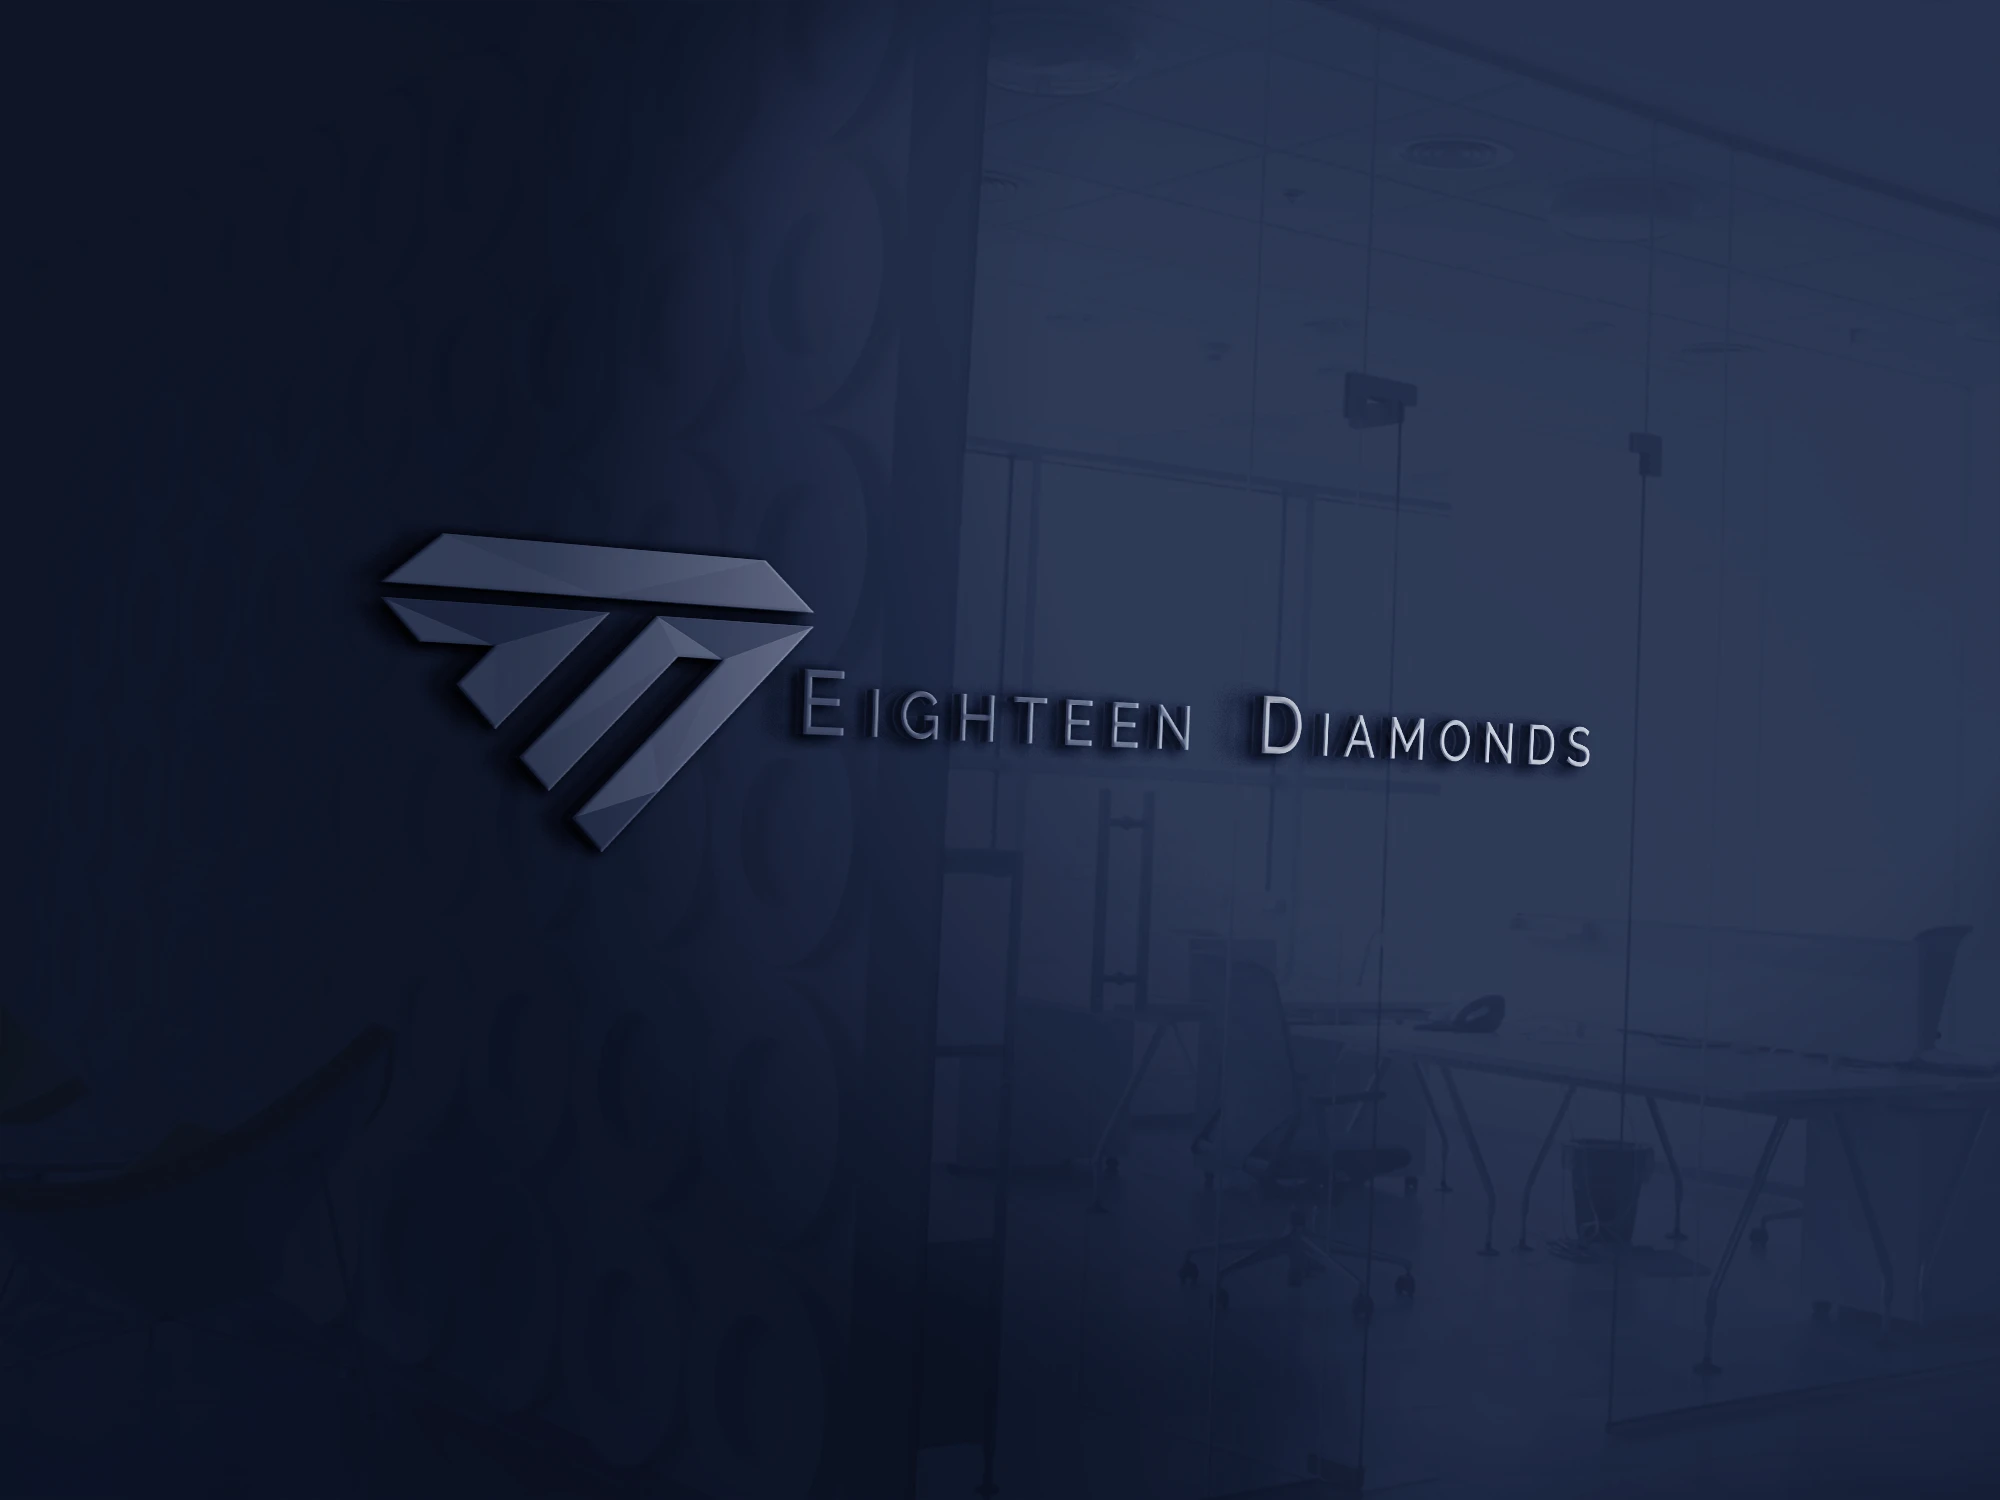
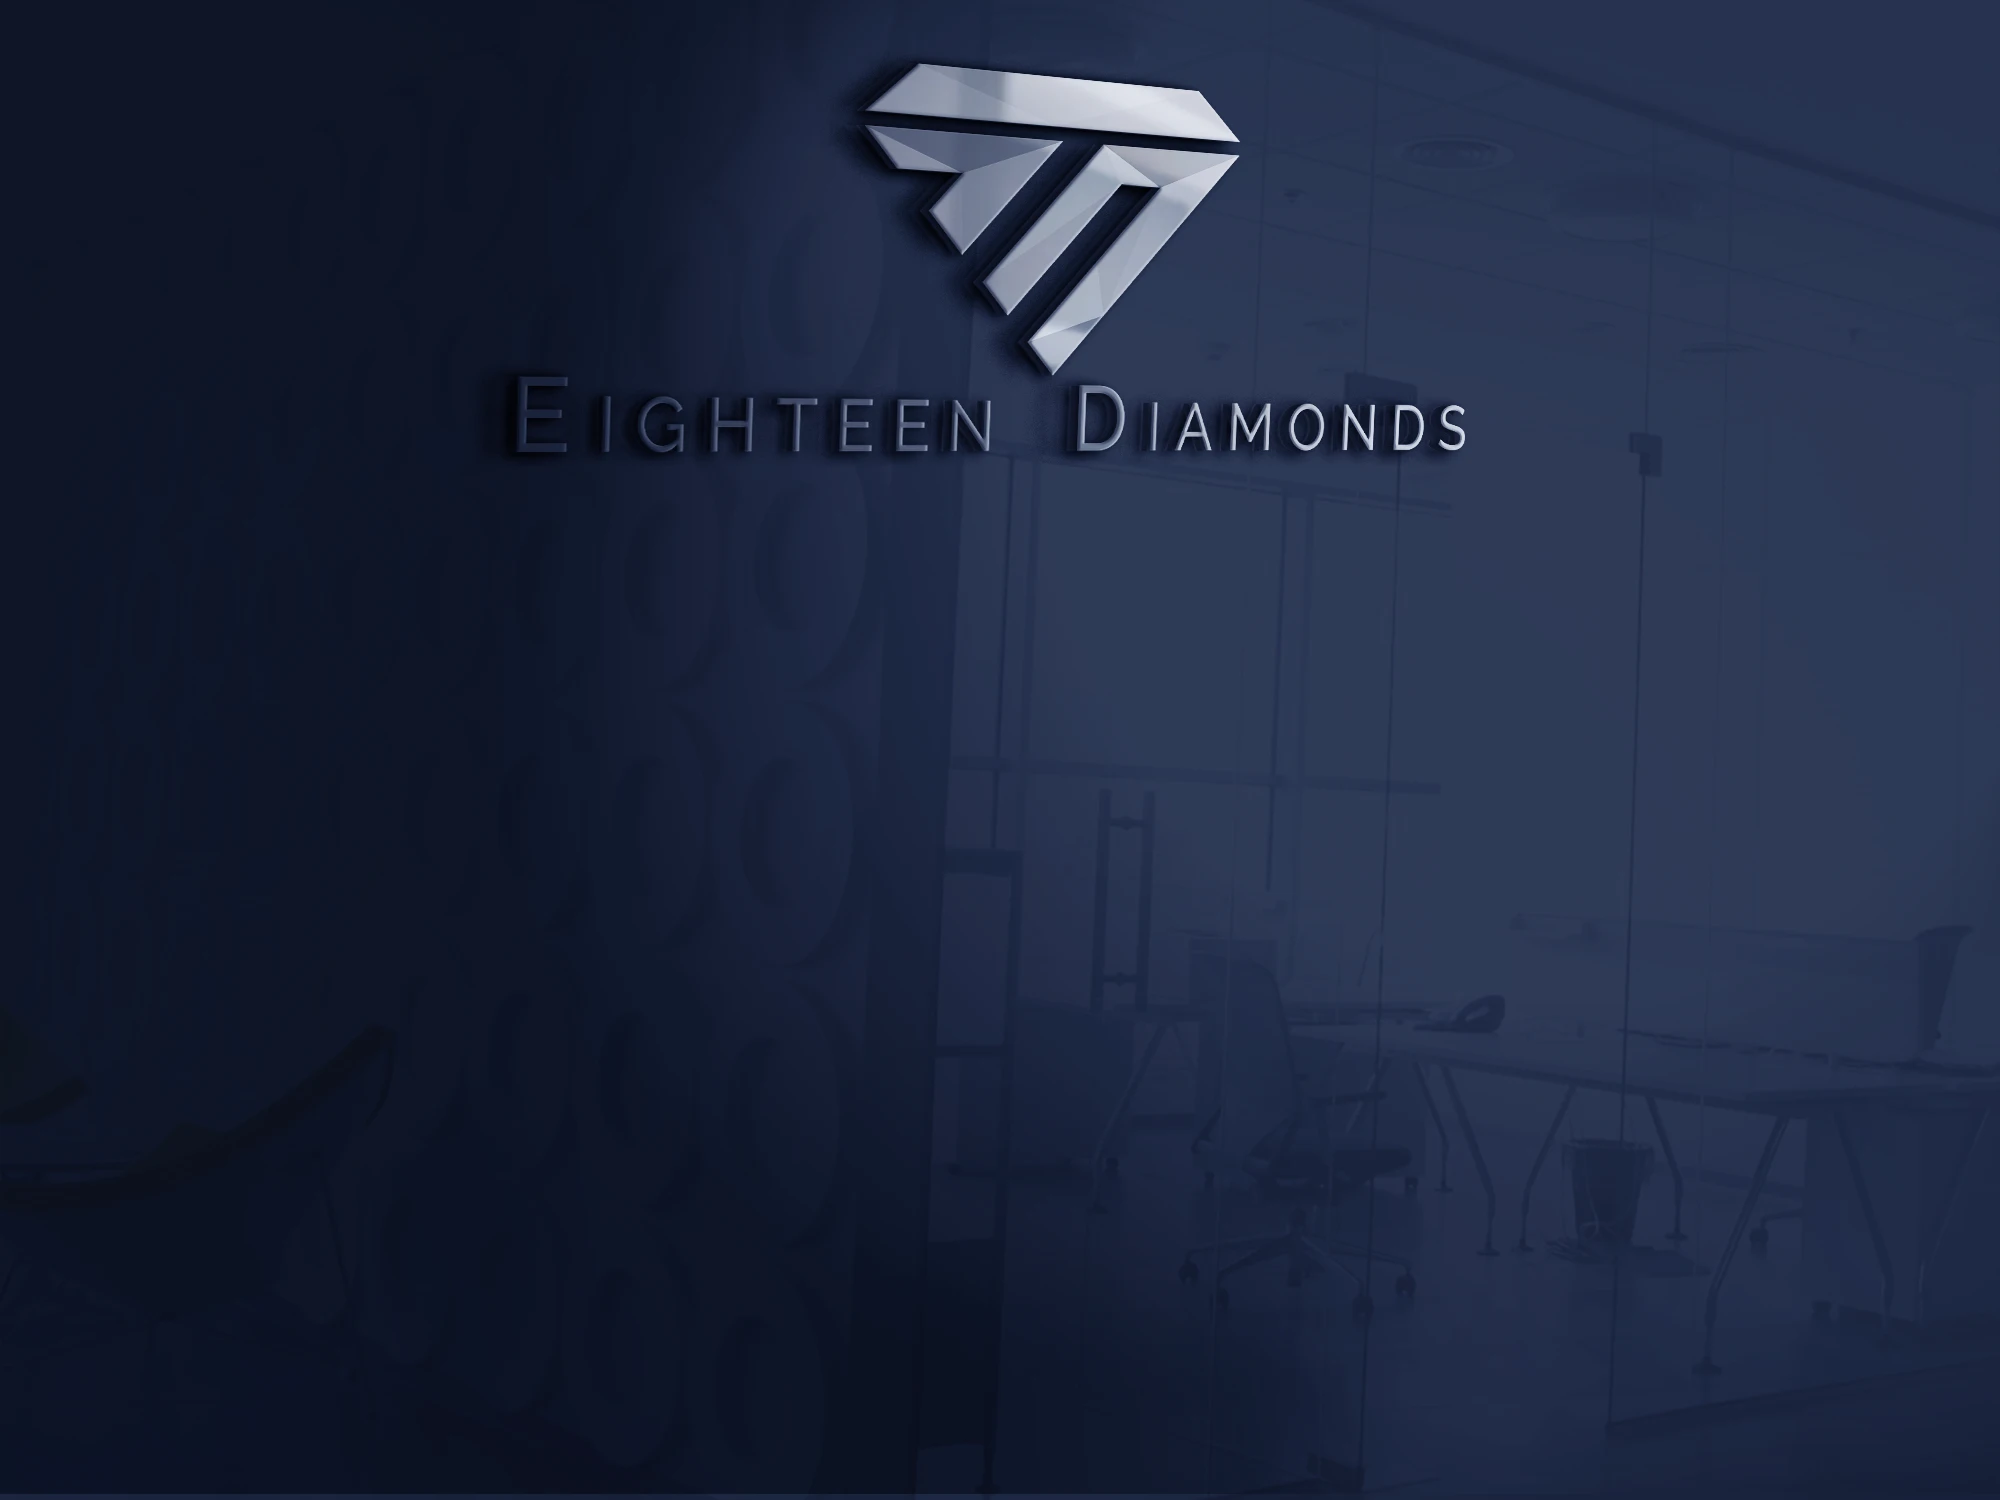
New hero photo with centered sign and copy

diff --git a/assets/styles.css b/assets/styles.css
@@ -212,14 +212,15 @@ h3 {
   letter-spacing: 0.16em;
 }
 
-/* Hero: landscape screens show the wall sign in the upper part, copy below it */
+/* Hero: the wall sign sits centered at the top of the photo, copy is centered below it */
 .hero {
   position: relative;
   display: flex;
   align-items: flex-end;
-  height: clamp(560px, 50vw, 820px);
-  background: var(--navy-900) url("hero.webp") 50% 62% / cover no-repeat;
+  height: clamp(600px, 52vw, 860px);
+  background: var(--navy-900) url("hero.webp") 50% 36px / cover no-repeat;
   overflow: hidden;
+  text-align: center;
 }
 
 .hero::after {
@@ -227,8 +228,8 @@ h3 {
   position: absolute;
   inset: 0;
   background:
-    linear-gradient(180deg, rgba(11, 17, 32, 0.6) 0%, rgba(11, 17, 32, 0) 18%),
-    linear-gradient(0deg, rgba(11, 17, 32, 0.97) 0%, rgba(11, 17, 32, 0.6) 32%, rgba(11, 17, 32, 0) 52%);
+    linear-gradient(180deg, rgba(11, 17, 32, 0.6) 0%, rgba(11, 17, 32, 0) 14%),
+    linear-gradient(0deg, rgba(11, 17, 32, 0.9) 0%, rgba(11, 17, 32, 0.3) 30%, rgba(11, 17, 32, 0) 45%);
 }
 
 .hero .wrap {
@@ -237,9 +238,20 @@ h3 {
   padding-bottom: clamp(32px, 4.5vw, 64px);
 }
 
+.hero .eyebrow::after {
+  content: "";
+  width: 32px;
+  height: 1px;
+  background: currentColor;
+}
+
+.hero .actions {
+  justify-content: center;
+}
+
 .hero .lede {
-  max-width: 62ch;
-  margin: 16px 0 28px;
+  max-width: 900px;
+  margin: 16px auto 28px;
   font-size: 17px;
   color: var(--silver-300);
 }
@@ -585,9 +597,9 @@ h3 {
   .hero {
     display: block;
     height: auto;
-    padding-top: calc(56px + 68vw);
-    background-size: 160% auto;
-    background-position: 50% 48px;
+    padding-top: calc(72px + 36vw);
+    background-size: 140% auto;
+    background-position: 50% 56px;
   }
 
   .hero::after {
@@ -595,8 +607,8 @@ h3 {
       180deg,
       rgba(11, 17, 32, 0.6) 0,
       rgba(11, 17, 32, 0) 90px,
-      rgba(11, 17, 32, 0) calc(48px + 52vw),
-      var(--navy-950) calc(48px + 92vw)
+      rgba(11, 17, 32, 0) calc(56px + 50vw),
+      var(--navy-950) calc(56px + 105vw)
     );
   }
 
@@ -692,7 +704,8 @@ h3 {
     letter-spacing: 0.18em;
   }
 
-  .hero .eyebrow::before {
+  .hero .eyebrow::before,
+  .hero .eyebrow::after {
     display: none;
   }
 }

diff --git a/docs/project-notes.md b/docs/project-notes.md
@@ -14,7 +14,8 @@ Address: 20 W 47th St, New York, NY 10036. Phone: (212) 542-0949. Email: info@ei
 
 ## Assets
 
-- `assets/hero.webp`: 3D wall sign photo, used as the hero background.
+- `assets/hero.webp`: 3D wall sign photo with the logo centered at the top, used as the hero
+  background; hero copy is centered below the sign.
 - `assets/logo.svg`: horizontal logo (icon + "Eighteen Diamonds"), original colors.
   Source: `iCloudDrive/018 Logos/Definitif/Logos/Logo 18 D outline.svg` (vector equivalent of
   `18D Outlined.ai`).
